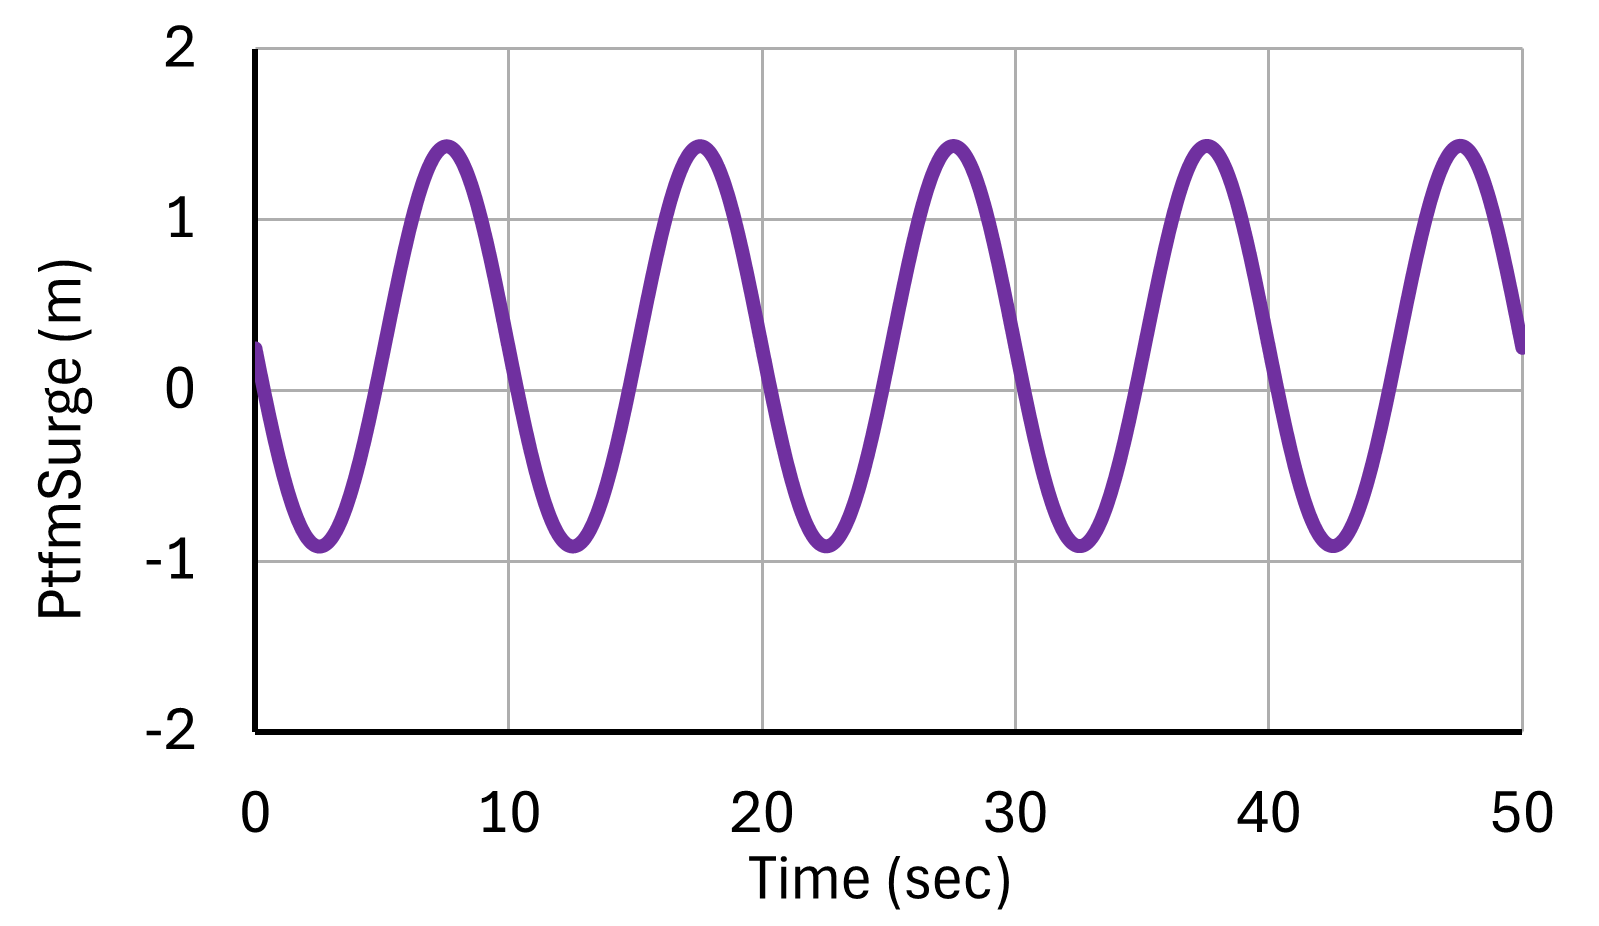
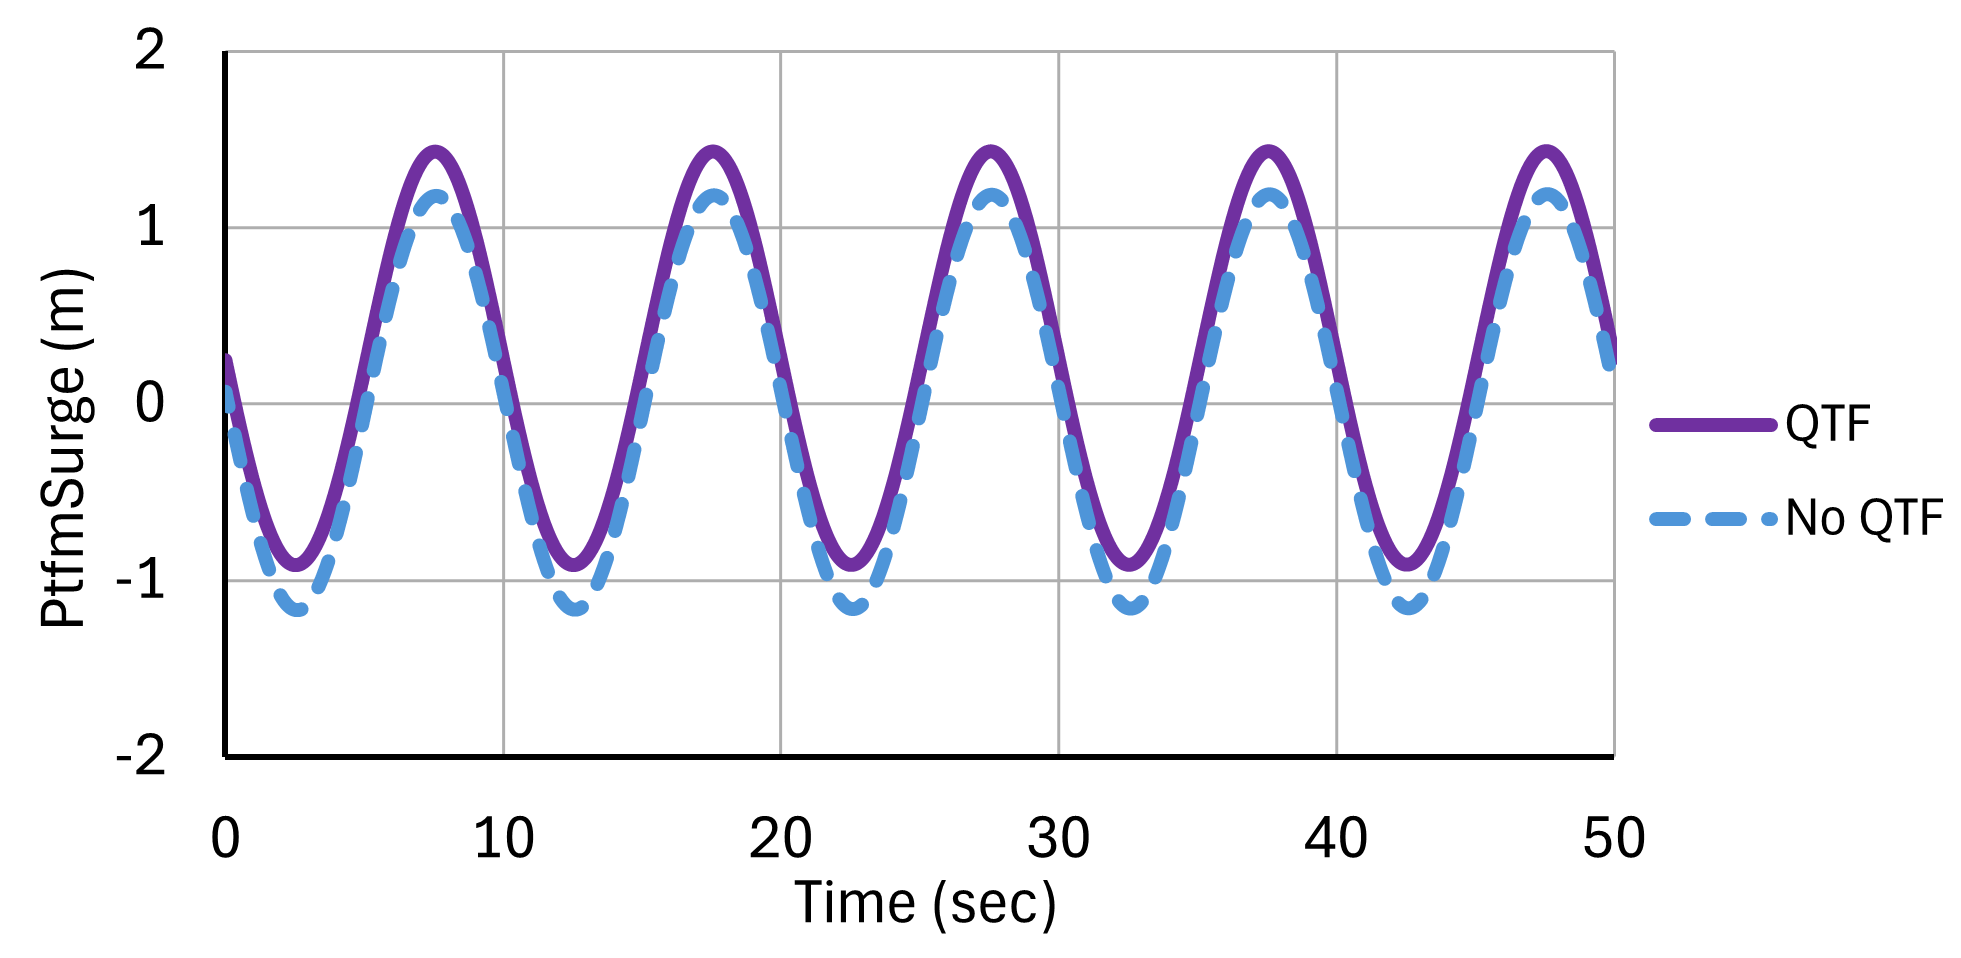
errything

diff --git a/CE7029/CE7029_OC4_Project.tex b/CE7029/CE7029_OC4_Project.tex
@@ -1,8 +1,9 @@
-\documentclass[a4paper]{article}
+\documentclass[a4paper, 11pt]{article}
 \usepackage[letterpaper,margin=1in]{geometry}
 \usepackage{blindtext}
 \usepackage{lastpage}
 \usepackage{fancyhdr}
+\usepackage{xcolor}
 \usepackage{setspace}
 \usepackage{amsmath}
 \usepackage{graphicx}
@@ -24,7 +25,7 @@
 \pagestyle{fancy} % Enable fancy headers
 \fancyhead[L]{CE 7029} % Left-aligned header
 \fancyhead[C]{Numerical Modelling of Offshore Wind Turbines} % Centered header
-\fancyhead[R]{-/03/2025} % Right-aligned header
+\fancyhead[R]{-/-/2025} % Right-aligned header
 
 \onehalfspacing
 
@@ -91,13 +92,8 @@ In addition to using the pre-existing OC4 model, the platform was also recreated
 
 This report provides a detailed account of the methodologies and results obtained during the numerical modeling and analysis of these floating offshore wind systems. By applying consistent load cases to both pre-existing and recreated models, the findings contribute to a comprehensive understanding of the dynamic behavior and performance of FOWTs under various conditions.
 
-\section{OC4 Semisubmersible Platform Analysis}
-\subsection{Article Review}
+\section{Article Review}
 \hspace*{0.5cm}The study by Robertson et al. (2014) presents an analysis of the OC4 semisubmersible floating offshore wind system developed for the DeepCwind project (\autoref{fig:OC4}), comparing results from 21 different load cases (\autoref{tab:image_table}) simulated by 21 organizations using 19 distinct modeling tools. The research evaluates the platform’s dynamic behavior under progressively complex conditions, from basic system identification to combined environmental loads and damage scenarios. The study emphasizes the importance of accurate modeling in predicting the platform's response to environmental forces, including wind, waves, and currents. 
-
-!!!RECONSIDER!!!!!!!
-The most significant findings highlight that accurate platform modeling requires proper treatment of dynamic pressure effects on submerged members, particularly for heave motion. Nonlinear wave kinematics prove especially important for extreme wave conditions, where simplified approaches may fail to capture critical response characteristics. 
-The study emphasizes the need for comprehensive validation of numerical models against experimental data, particularly in the context of floating wind turbine platforms. The results show the importance of considering various modeling approaches and their implications for predicting platform behavior under different environmental conditions.
 
 This report focuses on the cases of free decay tests and wave-induced responses, which are crucial for understanding the platform's dynamic behavior. The free decay tests involve subjecting the platform to initial displacements and allowing it to oscillate freely, while the wave-induced responses are analyzed by applying regular and irregular waves to the platform and measuring its response in terms of heave, pitch, and surge motions.
 The results of these tests provide valuable insights into the platform's natural frequencies and response characteristics, which are essential for designing and optimizing floating offshore wind systems.
@@ -106,14 +102,14 @@ The results of these tests provide valuable insights into the platform's natural
 \begin{figure}[htbp]
     \begin{minipage}{0.47\textwidth}
         \centering
-        \includegraphics[width=0.93\textwidth]{OC4.png}
+        \includegraphics[width=0.99\textwidth]{OC4.png}
         \caption{\small OC4-DeepCwind floating wind system design. (Robertson et al., 2014)}
         \label{fig:OC4}
     \end{minipage}
     \hfill
     \begin{minipage}{0.5\textwidth}
         \centering
-        \includegraphics[width=0.9\textwidth]{characteristics.png}
+        \includegraphics[width=0.97\textwidth]{characteristics.png}
         \caption{\small Summary of semisubmersible properties (Robertson et al., 2014)}
         \label{fig:characteristics}
     \end{minipage}
@@ -124,17 +120,17 @@ The results of these tests provide valuable insights into the platform's natural
     \caption{Load cases run in OC4 Phase II. (Robertson et al., 2014)}
     \label{tab:image_table}
     \begin{tabular}{c}
-        \includegraphics[width=0.95\textwidth]{table_3.png} \\
+        \includegraphics[width=1\textwidth]{table_3.png} \\
     \end{tabular}
 \end{table}
 
 
-\subsection{Pre-existing Model Analysis}
+\section{Pre-existing Model Analysis}
 
 \hspace*{0.5cm}In this section, the analysis of the OC4 semisubmersible platform was conducted using a pre-existing model in OpenFAST called "5MW\_OC4Semi\_WSt\_WavesWN". The model was subjected to free decay and wave-induced load cases, namely Group 1.3X, 2.1, and 2.2, as outlined in the study by Robertson et al. (2014). The results were processed using BEMRosetta to extract natural frequencies and generate response graphs.
 
-\subsubsection{Free Decay Tests}
-\hspace*{0.5cm}The free decay tests involves subjecting the platform to initial displacements and allowing it to oscillate freely. Each of the four cases from 1.3a to 1.3d analyze the four individual degrees of freedom, specifically surge, heave, pitch, and yaw. The platform is given an initial displacement in the respective degree of freedom for each load case. The motion response of the platform was calculated using OpenFAST, and the natural frequencies were extracted from the time-domain data using the Fast Fourier Transform (FFT) method on BEMRosetta. The motion results of the 1.3a and 1.3b can be seen in Figures 4-14. The natural frequencies obtained from the tests for 6 degrees of freedom are shown in Figures 16-21 and consistent with the reference study, confirming the accuracy of the modeling approach \autoref{fig:nat_freq}.
+\subsection{Free Decay Tests}
+\hspace*{0.5cm}The free decay tests involves subjecting the platform to initial displacements and allowing it to oscillate freely. Each of the four cases from 1.3a to 1.3d analyze the four individual degrees of freedom, specifically surge, heave, pitch, and yaw. The platform is given an initial displacement in the respective degree of freedom for each load case. The motion response of the platform was calculated using OpenFAST, and the natural frequencies were extracted from the time-domain data using the Fast Fourier Transform (FFT) method on BEMRosetta. The motion results of the 1.3a and 1.3b can be seen in Figures 4-14. The natural frequencies obtained from the tests for 6 degrees of freedom are shown in Figures 16-21 and consistent with the reference study, confirming the accuracy of the modeling approach \autoref{fig:nat_freq}. \textcolor{red}{For pitch, a very distinct grouping is seen for codes using Morison’s equation for calculating the viscous drag (dotted or dash-dotted results) versus those using a quadratic drag matrix (solid line results).}
 \vspace{0.3cm}
 
 %%1.3a figures
@@ -295,28 +291,31 @@ The results of these tests provide valuable insights into the platform's natural
 
 The natural frequency analysis of the semisubmersible platform shows a distinction in the magnitude of these frequencies across the six degrees of freedom. Specifically, the natural frequencies for heave, roll and pitch were notably higher than those for surge, sway and yaw, with heave demonstrating highest frequency overall.
 
-This difference arises from the restoring mechanisms associated with each mode. Heave, roll, and pitch are governed by strong hydrostatic restoring forces. For heave, this is primarily due to buoyancy, where vertical displacements lead to significant changes in the buoyant force. Roll and pitch experience restoring moments due to the platform's metacentric heights, which resist angular displacements !!!!!(Jonkman, 2007) FIND BETTER REFERENCE. These restoring forces result in higher natural frequencies. In contrast, for a freely floating platform in calm water, the restoring forces for surge and sway are minimal for small displacements, leading to very low natural frequencies. Yaw experiences some hydrodynamic resistance to rotation, but this is generally weaker than the hydrostatic restoring forces in roll and pitch, resulting in a lower natural frequency compared to them. 
+This difference originates from the restoring mechanisms associated with each degree of freedom. Heave, roll, and pitch are governed by strong hydrostatic restoring forces. For heave, this is primarily due to buoyancy, where vertical displacements lead to significant changes in the buoyant force. Roll and pitch experience restoring moments due to the platform's metacentric heights, which resist angular displacements. These restoring forces result in higher natural frequencies. In contrast, the restoring forces for surge and sway are minimal for small displacements, leading to very low natural frequencies. The yaw response shows restoring strength of similar but reduced magnitude to roll and pitch. This rotational stiffness is primarily from hydrodynamic sources like the geometry of the body, rather than the hydrostatic mechanisms that dominate roll and pitch (Jonkman, 2007).
 
 
-\subsubsection{Wave-Induced Tests}
-\hspace*{0.5cm}The wave-induced responses were analyzed by applying regular and irregular waves to the platform. 
+\subsection{Wave-Induced Tests}
+\hspace*{0.5cm}The wave-induced responses were analyzed by applying regular and irregular waves to the platform. The peak period of the waves were taken as 10 seconds, and the significant wave height was set to 6 meters. For the irregular waves, the JONSWAP spectrum was used to generate the wave field, with a peak wave shape parameter of 2.87. 
 
 
-\paragraph{Load Case 2.1}
-The load case 2.1 was used to analyze the platform's response to regular waves in terms of heave, pitch, and surge motions and fairlead 2 tension force. The results were processed using BEMRosetta to extract the platform's response and compared to the reference study, which can be seen in Figures 22-27. The comparison shows that the platform's response to regular waves is consistent with the reference study, specifically very similar to the NREL results for motions, confirming the accuracy of the modeling approach. The fairlead 2 tension force showed a similar trend to participants that used a dynamic mooring model, which means that this type of model treats the mooring lines as flexible structures with mass, stiffness, and damping .
+\subsubsection{Load Case 2.1}
+
+\hspace{0.5cm}Load case 2.1 was used to analyze the platform’s response to regular waves, focusing on heave, pitch, surge motions, and the tension force at fairlead 2. The analysis was conducted using two approaches: one incorporating second-order drift effects through quadratic transfer functions (QTF) to account for low-frequency wave forces, and another excluding drift effects to isolate first-order wave responses. The results, processed using BEMRosetta, were compared to the reference study (Figures 22–29).
+
+The platform's motion responses showed a strong resemblence to NREL's FAST v8 simulations when drift effects were neglected, as expected, since they did not utilize QTF-based second-order analysis in their calculations. This alignment confirms that both approaches produced equivalent first-order hydrodynamic responses. This consistency validates the first-order hydrodynamic modeling approach. However, when drift forces were introduced, surge motion showed significant sensitivity to QTF inclusion due to its weak hydrodynamic restoring forces. In contrast, heave and pitch motions remained virtually unaffected by second-order effects because their strong hydrostatic stiffness and higher natural frequencies (Figures 16, 18, and 20) make them more responsive to first-order wave excitations. The observed reduction in maximum fairlead 2 tension when neglecting QTF stems from this mooring point's direct coupling with surge motion along the y-axis; as the slow-drift components were removed, both surge displacement and consequent line tension decreased proportionally. These tension results aligned with dynamic mooring models, validating that the simulation properly accounted for the mooring system's mass, stiffness, and damping characteristics.
 
 %% 2.1 figures
 \begin{figure}[H]
-    \begin{minipage}{0.49\textwidth}
+    \begin{minipage}{0.48\textwidth}
         \centering
         \includegraphics[width=1\textwidth]{2.1_surge.png}
         \caption{\small Surge response for 2.1 (Robertson et al., 2014)}
         \label{fig:2.1_surge}
     \end{minipage}
     \hfill
-    \begin{minipage}{0.5\textwidth}
+    \begin{minipage}{0.51\textwidth}
         \centering
-        \vspace{-0.6cm}
+        \vspace{-0.3cm}
         \includegraphics[width=1\textwidth]{2.1_surge_mine.png}
         \caption{\small Surge response for 2.1}
         \label{fig:2.1_surge_mine}
@@ -324,16 +323,16 @@ The load case 2.1 was used to analyze the platform's response to regular waves i
 \end{figure}
 
 \begin{figure}[H]
-    \begin{minipage}{0.49\textwidth}
+    \begin{minipage}{0.48\textwidth}
         \centering
         \includegraphics[width=1\textwidth]{2.1_heave.png}
         \caption{\small Heave response for 2.1 (Robertson et al., 2014)}
         \label{fig:2.1_heave}
     \end{minipage}
     \hfill
-    \begin{minipage}{0.5\textwidth}
+    \begin{minipage}{0.51\textwidth}
         \centering
-        \vspace{-0.6cm}
+        \vspace{-0.3cm}
         \includegraphics[width=1\textwidth]{2.1_heave_mine.png}
         \caption{\small Heave response for 2.1}
         \label{fig:2.1_heave_mine}
@@ -341,16 +340,16 @@ The load case 2.1 was used to analyze the platform's response to regular waves i
 \end{figure}
 
 \begin{figure}[H]
-    \begin{minipage}{0.49\textwidth}
+    \begin{minipage}{0.48\textwidth}
         \centering
         \includegraphics[width=1\textwidth]{2.1_pitch.png}
         \caption{\small Pitch response for 2.1 (Robertson et al., 2014)}
         \label{fig:2.1_pitch}
     \end{minipage}
     \hfill
-    \begin{minipage}{0.5\textwidth}
+    \begin{minipage}{0.51\textwidth}
         \centering
-        \vspace{-0.6cm}
+        \vspace{-0.3cm}
         \includegraphics[width=1\textwidth]{2.1_pitch_mine.png}
         \caption{\small Pitch response for 2.1}
         \label{fig:2.1_pitch_mine}
@@ -358,23 +357,69 @@ The load case 2.1 was used to analyze the platform's response to regular waves i
 \end{figure}
 
 \begin{figure}[H]
-    \begin{minipage}{0.49\textwidth}
+    \begin{minipage}{0.48\textwidth}
         \centering
         \includegraphics[width=1\textwidth]{2.1_fairten2.png}
         \caption{\small Fairlead 2 response for 2.1 (Robertson et al., 2014)}
         \label{fig:2.1_fairten2}
     \end{minipage}
     \hfill
-    \begin{minipage}{0.5\textwidth}
+    \begin{minipage}{0.51\textwidth}
         \centering
-        \vspace{-0.6cm}
+        \vspace{-0.3cm}
         \includegraphics[width=0.95\textwidth]{2.1_fairten2_mine.png}
         \caption{\small Fairlead 2 response for 2.1}
         \label{fig:2.1_fairten2_mine}
     \end{minipage}
 \end{figure}
 
-\paragraph{Load Case 2.2}
-The load case 2.2 was used to analyze the platform's response to irregular waves in terms of surge and pitch motions and tower moment. The results given in the reference study shows that the average responses to irregular waves are quite various between the participants (Figure 30). This is caused by the   
+\subsubsection{Load Case 2.2}
+
+\hspace{0.5cm}Load case 2.2 analyzes the platform's response to irregular waves, examining surge motion, pitch motion, and tower bending moment. The reference study shows significant variation in average responses between participants (Figure 30), caused by different modeling approaches, particularly whether drift effects were included. Results processed through BEMRosetta compare simulations with and without quadratic transfer function (QTF) analysis (Figures 31-33).
+
+Similar to load case 2.1, the results show that the surge motion is highly sensitive to second-order drift effects. In contrast, pitch motion and tower bending moment show minimal changes. The consistent patterns observed in this analysis match well with participant results when accounting for each study's specific modeling choices. 
+
+\begin{figure}[H]
+    \centering
+    \includegraphics[width=1\textwidth]{2.2.png}
+    \caption{\small Average responses to irregular waves (Robertson et al., 2014)}
+    \label{fig:2.2}
+\end{figure}
+
+\begin{figure}[H]
+    \centering
+    \includegraphics[width=0.78\textwidth]{2.2_surge.png}
+    \caption{\small Surge response to irregular waves}
+    \label{fig:2.2_surge}
+\end{figure}
+
+\begin{figure}[H]
+    \centering
+    \includegraphics[width=0.78\textwidth]{2.2_pitch.png}
+    \caption{\small Pitch response to irregular waves}
+    \label{fig:2.2_pitch}
+\end{figure}
+
+\begin{figure}[H]
+    \centering
+    \includegraphics[width=0.78\textwidth]{2.2_twr.png}
+    \caption{\small Tower bending response to irregular waves (fore/aft direction)}
+    \label{fig:2.2_twr}
+\end{figure}
+
+\section{Recreated Platform Model Analysis}
+
+\hspace*{0.5cm}The OC4 semisubmersible platform was recreated independently using Rhino (Figure 34), and the hydrodynamic properties of this model were calculated using HAMS to generate WAMIT output files. The same load cases were applied to the recreated model in OpenFAST, allowing for a direct comparison between the pre-existing and recreated models.
+The recreated model was subjected to the same load cases as the pre-existing model, including free decay tests and wave-induced responses.
+
+\begin{figure}[H]
+    \centering
+    \includegraphics[width=0.78\textwidth]{rhino.png}
+    \caption{\small Recreated OC4 semisubmersible platform in Rhino}
+    \label{fig:rhino}
+\end{figure}
+
+
+
 
 \end{document}
